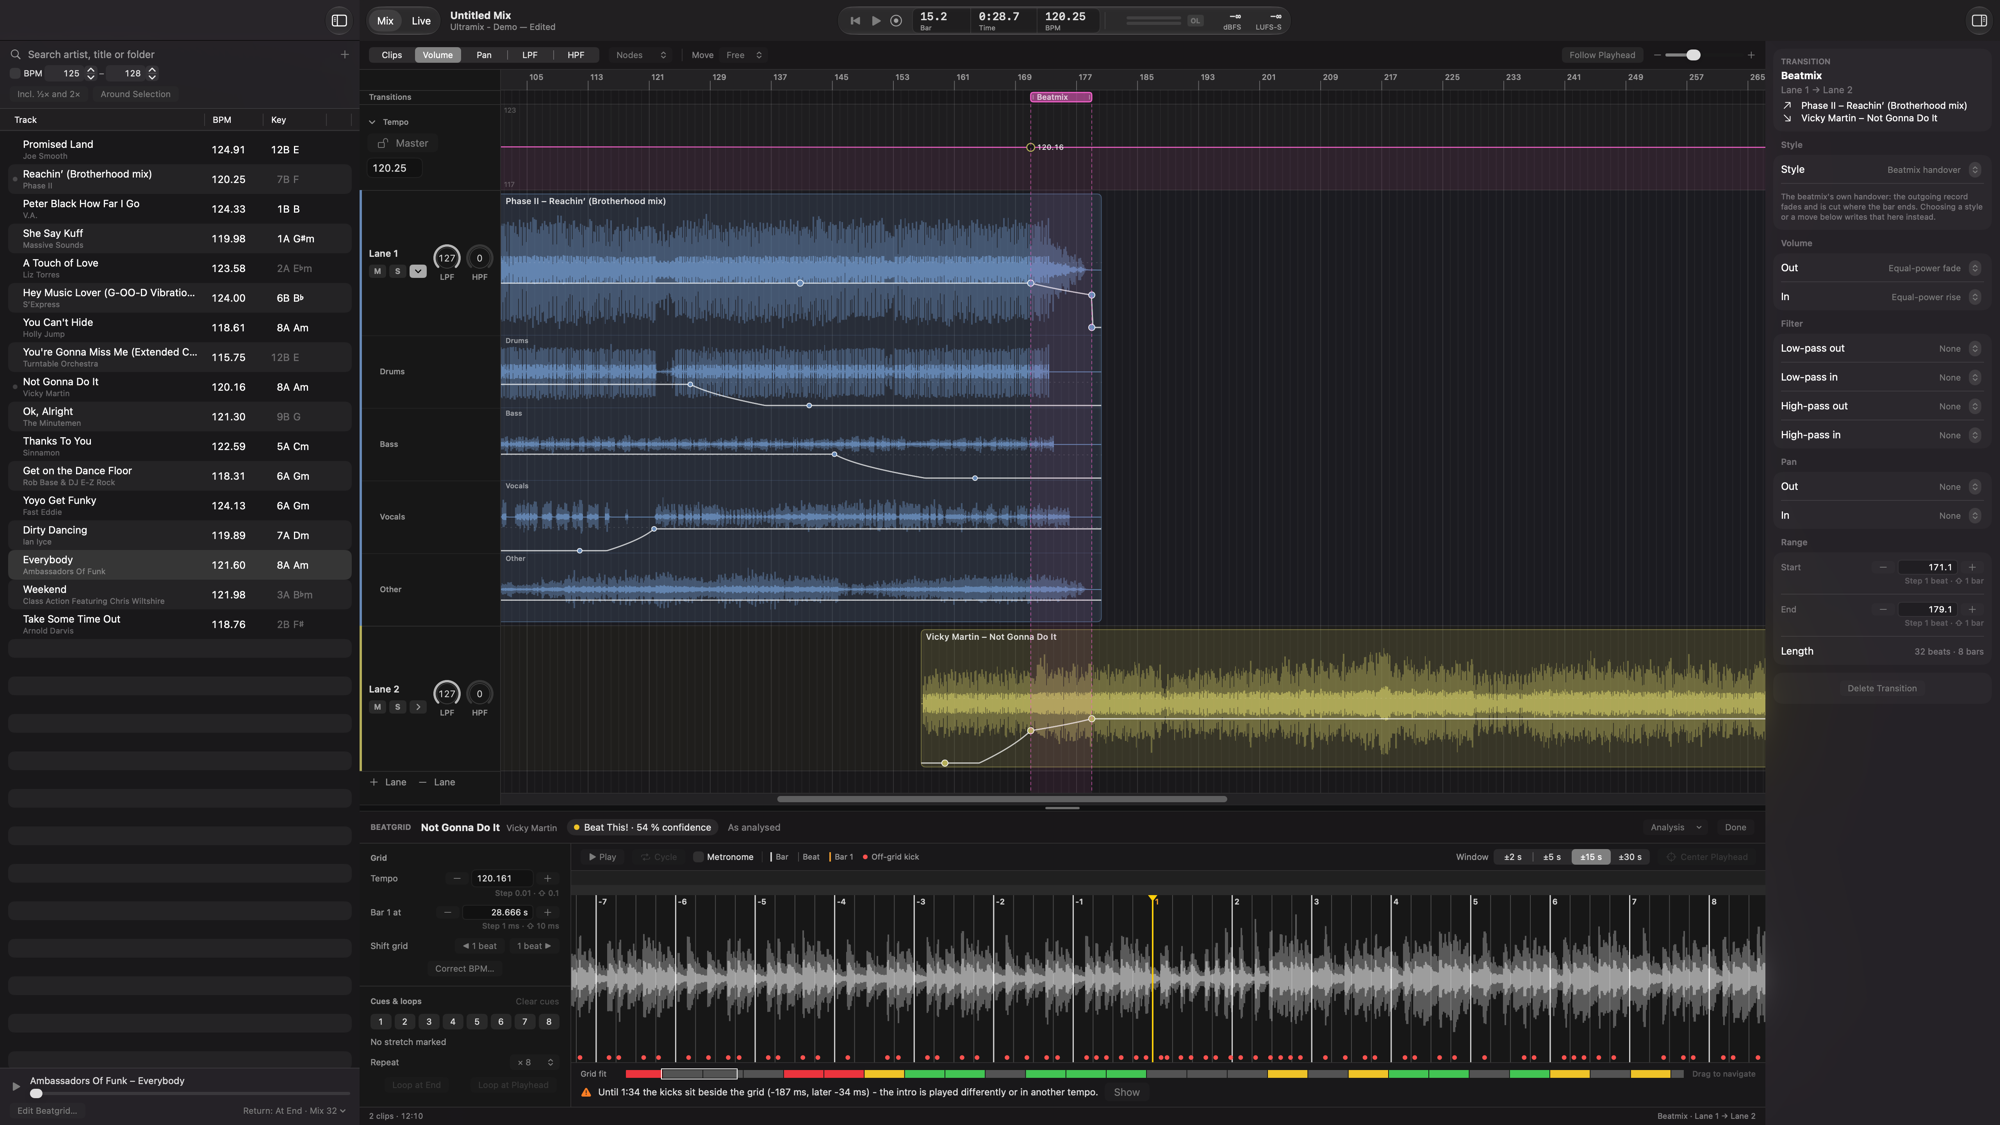
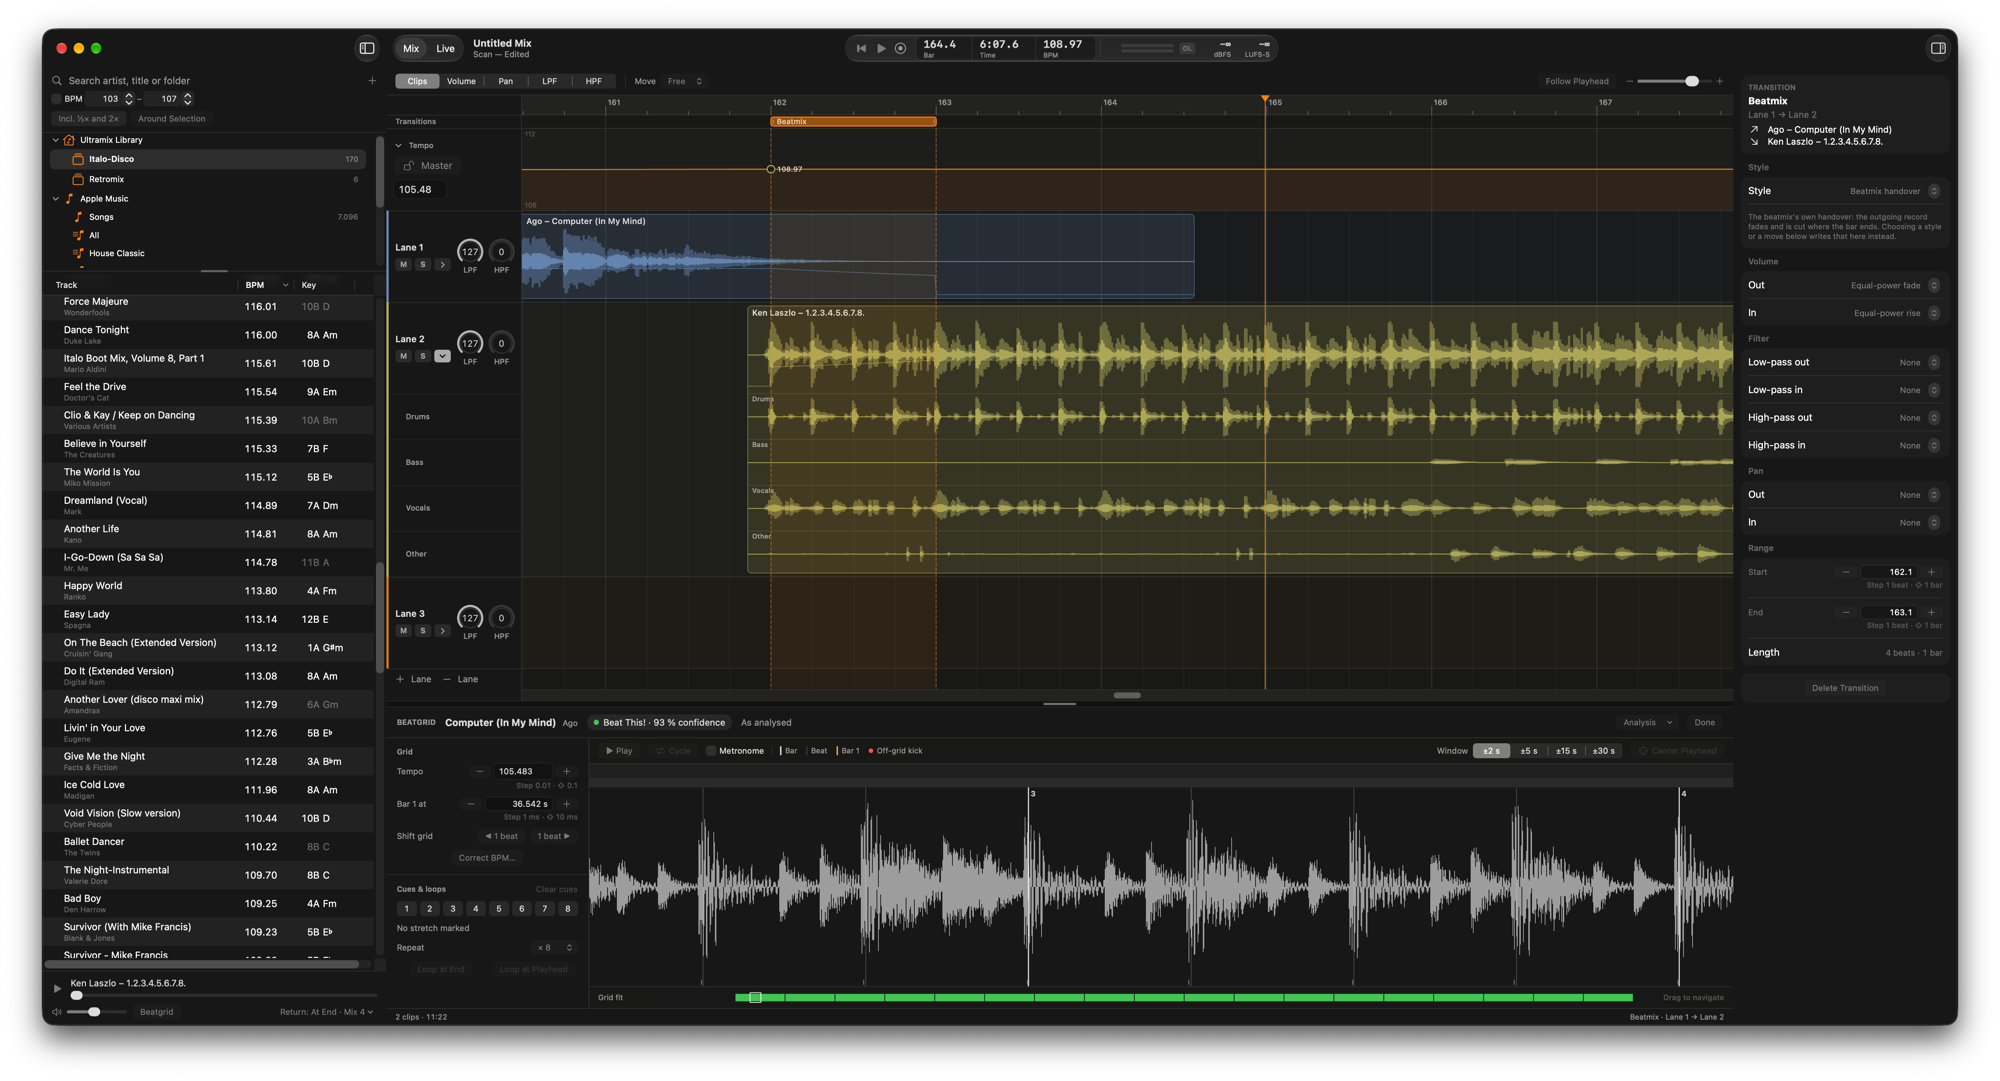
Update the README screenshot for 1.6

diff --git a/README.md b/README.md
@@ -6,7 +6,7 @@ A native macOS DJ mix editor: build a complete mix on a beat-based timeline
 before the party, hear every transition while you shape it, and bounce the
 finished set to WAV or MP3.
 
-![Ultramix 1.5.2: the library as a sidebar on the left, lane 1 expanded into drums, bass, vocals and other with volume curves drawn on them, a beatmix bar picked and its transition in the inspector on the right, the transport and meter in the middle of the toolbar, and the beatgrid drawer below with the waveform in grey, the kicks beside the grid as red dots and an intro warning](screenshot.png)
+![Ultramix 1.6: the library sidebar with the source tree on top - crates Italo-Disco and Retromix under Ultramix Library, then Apple Music with its songs and playlists - and the Italo-Disco crate sorted by BPM below it; on the timeline a beatmix between two lanes, lane 2 expanded into drums, bass, vocals and other, the beatmix in the inspector on the right, and the beatgrid drawer below with the grid fit bar](screenshot.png)
 
 Swift, SwiftUI and AVFoundation, Apple Silicon only.
 
